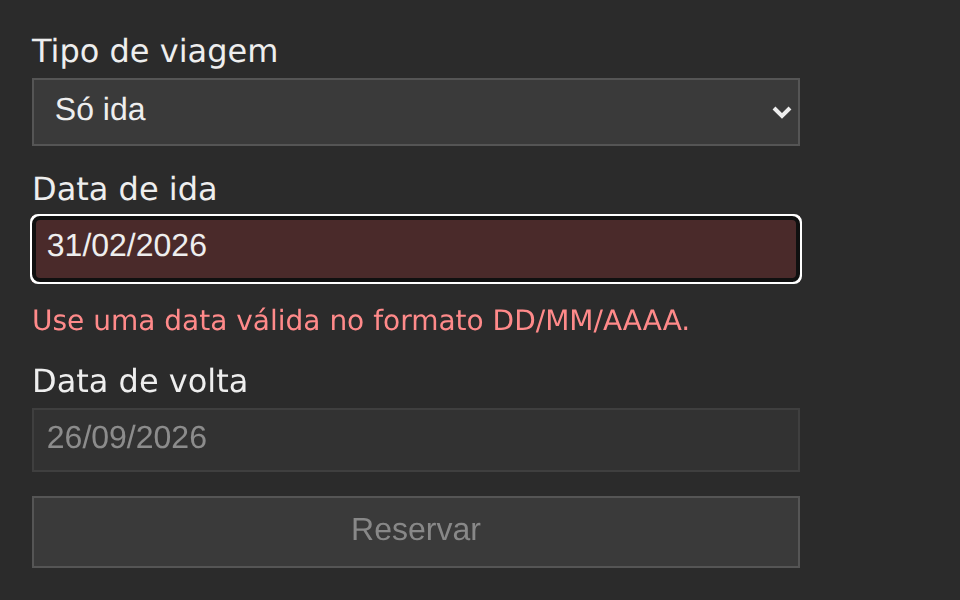
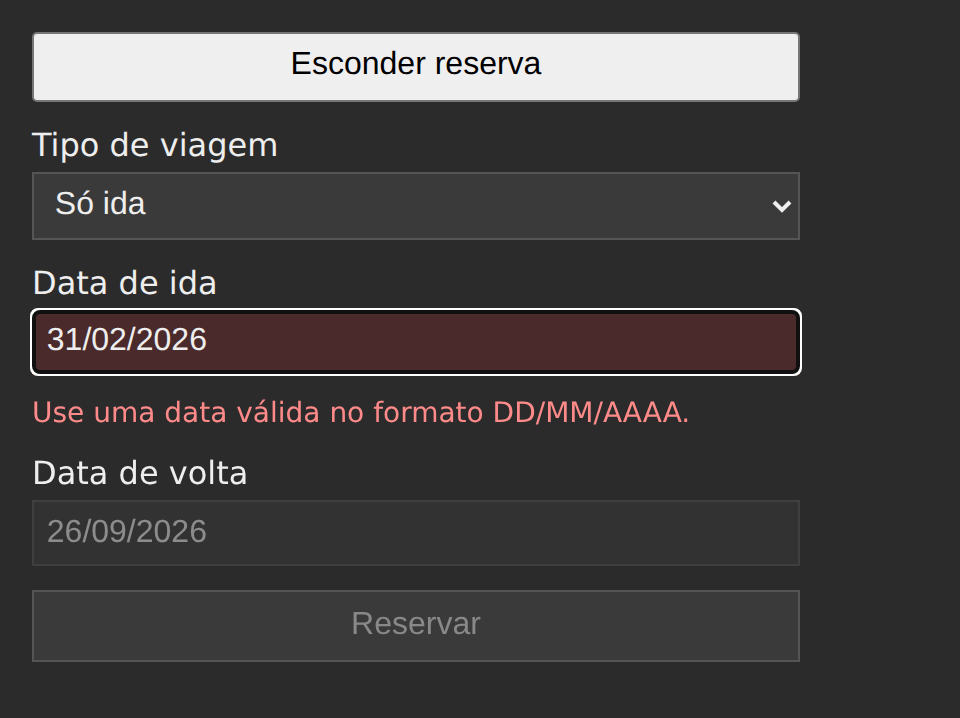
Esconde e mostra a Reserva de passagem no Web Component
Desde "Leva à Reserva de passagem as regras comuns da primeira rodada",
o teste de conformidade pede o botão "Esconder reserva", e o Web
Component ainda abre o <formulario-de-compra> direto no body, sem
página que o tire e o ponha de volta: a verificação 8 não tem o que
clicar.

Entra a página, o elemento <reserva-de-passagem>, como a do Login e a
do Placar ao vivo: o esqueleto em HTML com o botão, e o formulário
criado com createElement e posto com append, como o
implementacoes/AGENTS.md pede para o elemento filho que o botão põe na
página, e tirado com remove. O esqueleto do formulário ganha o
<section class="painel"> em volta do form e da confirmação, que o
estilo.css já espera. Nada fica aberto fora da página, então não há
disconnectedCallback. A confirmação já estava numa região role="status"
desde a abertura: o requisito "Confirmação anunciada" só ganha a
verificação. O nome da classe e do elemento (FormularioDeCompra,
formulario-de-compra) ficam para a renomeação da interface (tcc-vhnu).

npm run conformidade -- formulario/web-component passa nas 16
verificações. As capturas das quatro cenas mudam com a página, o botão
acima do formulário, e entra a da cena escondido, conferidas nas
imagens.

Refs: tcc-v4m7

diff --git a/implementacoes/formulario/web-component/src/main.ts b/implementacoes/formulario/web-component/src/main.ts
@@ -8,30 +8,32 @@ import {
 import "../../estilo.css";
 
 const modelo = /* HTML */ `
-  <form class="formulario" novalidate>
-    <label>
-      Tipo de viagem
-      <select name="tipo">
-        <option value="ida">Só ida</option>
-        <option value="ida-e-volta">Ida e volta</option>
-      </select>
-    </label>
+  <section class="painel">
+    <form class="formulario" novalidate>
+      <label>
+        Tipo de viagem
+        <select name="tipo">
+          <option value="ida">Só ida</option>
+          <option value="ida-e-volta">Ida e volta</option>
+        </select>
+      </label>
 
-    <label>
-      Data de ida
-      <input name="ida" placeholder="DD/MM/AAAA" />
-    </label>
-    <p class="erro" data-erro="ida" hidden></p>
+      <label>
+        Data de ida
+        <input name="ida" placeholder="DD/MM/AAAA" />
+      </label>
+      <p class="erro" data-erro="ida" hidden></p>
 
-    <label>
-      Data de volta
-      <input name="volta" placeholder="DD/MM/AAAA" disabled />
-    </label>
-    <p class="erro" data-erro="volta" hidden></p>
+      <label>
+        Data de volta
+        <input name="volta" placeholder="DD/MM/AAAA" disabled />
+      </label>
+      <p class="erro" data-erro="volta" hidden></p>
 
-    <button type="submit">Reservar</button>
-  </form>
-  <p class="confirmacao" role="status"></p>
+      <button type="submit">Reservar</button>
+    </form>
+    <p class="confirmacao" role="status"></p>
+  </section>
 `;
 
 type Campo = "ida" | "volta";
@@ -111,4 +113,37 @@ class FormularioDeCompra extends HTMLElement {
   }
 }
 
+// A página: o botão que tira o formulário da página e o põe de volta.
+class ReservaDePassagem extends HTMLElement {
+  private formulario?: FormularioDeCompra;
+
+  connectedCallback() {
+    this.innerHTML = /* HTML */ `
+      <main class="reserva">
+        <button type="button" class="alternar">Esconder reserva</button>
+      </main>
+    `;
+    const principal = this.querySelector("main")!;
+    const alternar = this.querySelector<HTMLButtonElement>(".alternar")!;
+    const mostrar = () => {
+      this.formulario = document.createElement(
+        "formulario-de-compra",
+      ) as FormularioDeCompra;
+      principal.append(this.formulario);
+      alternar.textContent = "Esconder reserva";
+    };
+    alternar.addEventListener("click", () => {
+      if (this.formulario) {
+        this.formulario.remove();
+        this.formulario = undefined;
+        alternar.textContent = "Mostrar reserva";
+      } else {
+        mostrar();
+      }
+    });
+    mostrar();
+  }
+}
+
 customElements.define("formulario-de-compra", FormularioDeCompra);
+customElements.define("reserva-de-passagem", ReservaDePassagem);

diff --git a/implementacoes/formulario/web-component/index.html b/implementacoes/formulario/web-component/index.html
@@ -6,7 +6,7 @@
     <title>Formulário com Web Component</title>
   </head>
   <body>
-    <formulario-de-compra></formulario-de-compra>
+    <reserva-de-passagem></reserva-de-passagem>
     <script type="module" src="/src/main.ts"></script>
   </body>
 </html>
